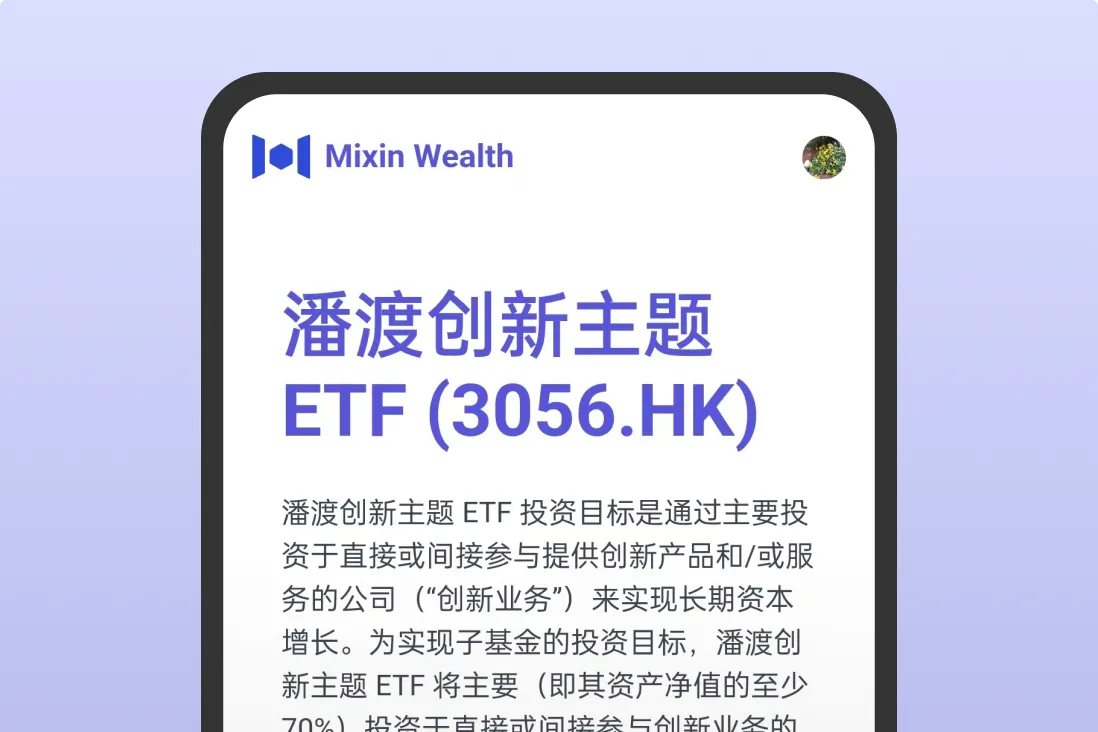
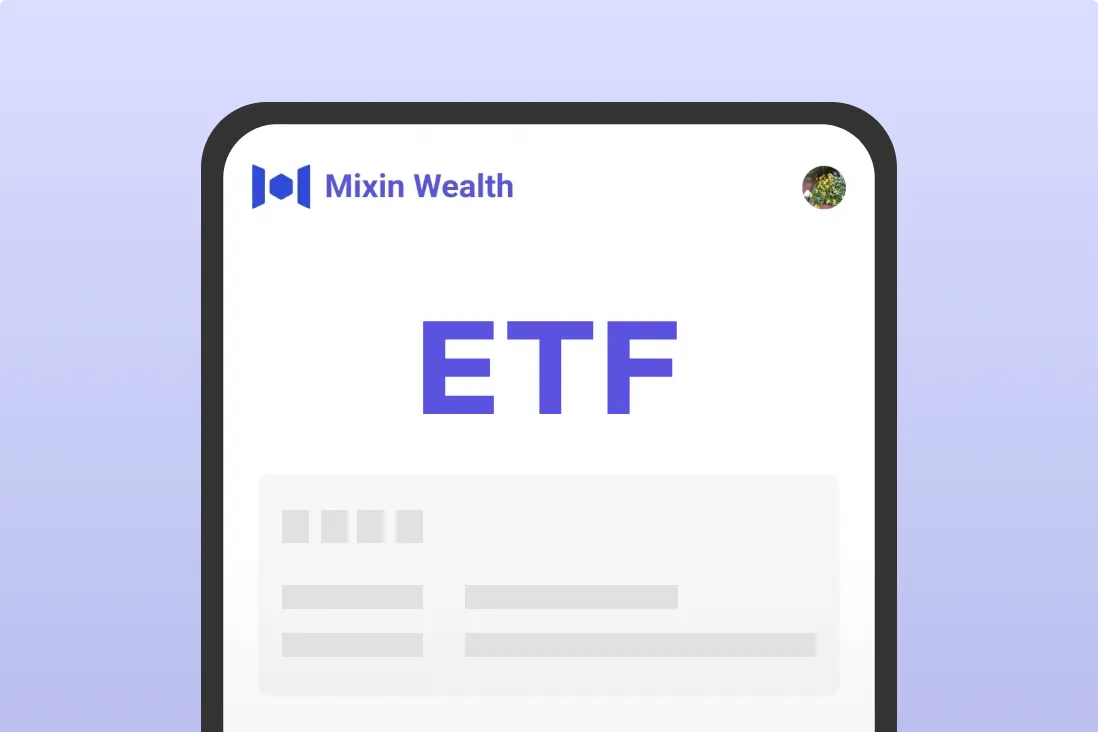
Update custom.css and add new product images

Changed region(s): [[0.2477, 0.6612, 0.7432, 1.0], [0.1858, 0.0902, 0.8361, 0.3005], [0.2477, 0.3907, 0.7122, 0.6311]]

diff --git a/new-website/src/css/custom.css b/new-website/src/css/custom.css
@@ -2,10 +2,12 @@
 @import "@unocss/reset/tailwind-compat.css";
 @unocss all;
 
-:root {
+:root,
+html {
   --ifm-global-spacing: 0;
   font-family: "Inter", ui-sans-serif, system-ui, -apple-system, BlinkMacSystemFont, "Segoe UI", Roboto, "Helvetica Neue", Arial, "Noto Sans", sans-serif, "Apple Color Emoji", "Segoe UI Emoji",
     "Segoe UI Symbol", "Noto Color Emoji";
+  @apply overflow-x-hidden;
 }
 
 a,
